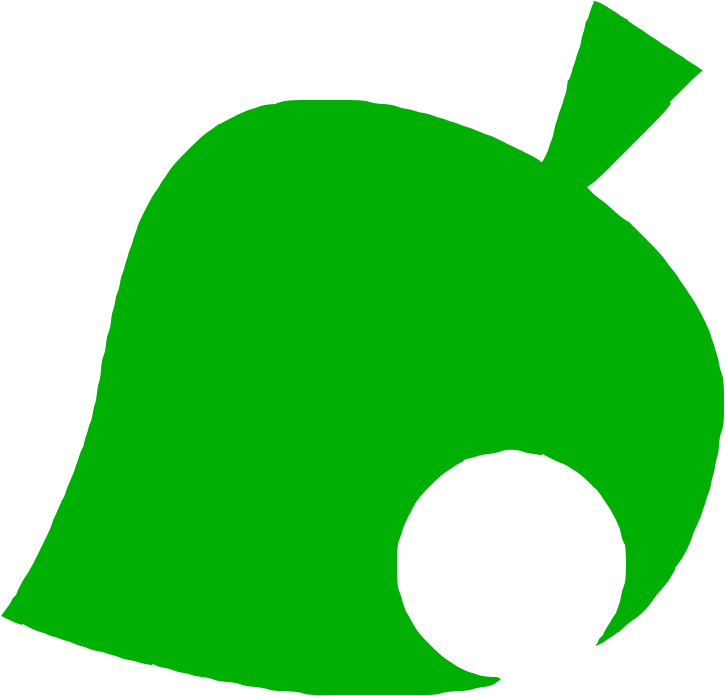
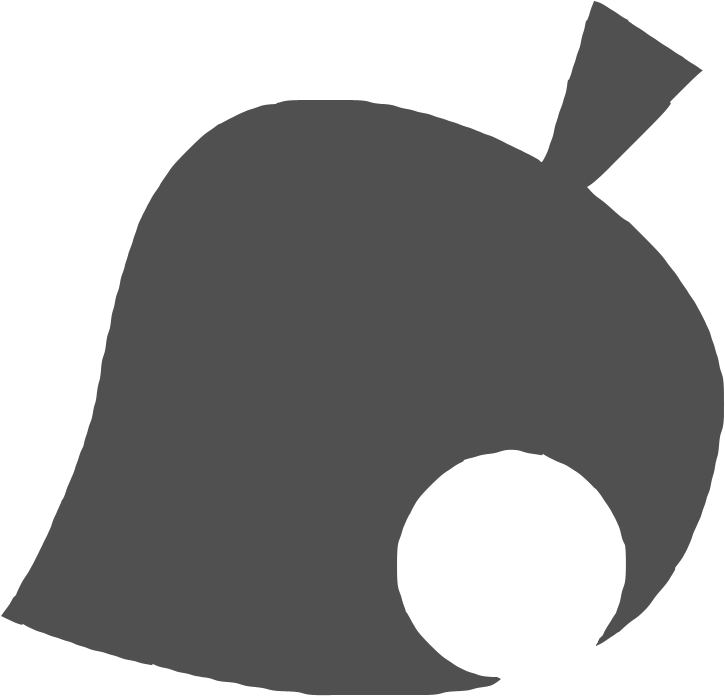
Adjust background color

diff --git a/src/components/Home.js b/src/components/Home.js
@@ -40,45 +40,45 @@ const Home = () => {
         <div className="col-xs-12 text-white">Title</div>
       </div>
       <div className="row">
-        <div className="col category leafbg">
+        <div className="col category p-4 bg-1">
           <NavLink
             className="nav-link"
             to="/villagers"
           >
-            <h2 className="links-nav">
+            <h3 className="links-nav">
               Villagers:
-            </h2>
+            </h3>
           </NavLink>
           {villagers}
           elements. Visible: 25.
         </div>
-        <div className="col category">
+        <div className="col category p-4 bg-2">
           <NavLink
             className="nav-link"
             to="/fossils"
           >
-            <h2 className="links-nav">
+            <h3 className="links-nav">
               Fossils:
-            </h2>
+            </h3>
           </NavLink>
           {fossils}
           elements.
         </div>
       </div>
       <div className="row">
-        <div className="col category">
+        <div className="col category p-4 bg-2">
           <NavLink
             className="nav-link"
             to="/art"
           >
-            <h2 className="links-nav">
+            <h3 className="links-nav">
               Works of Art:
-            </h2>
+            </h3>
           </NavLink>
           {artsies}
           elements.
         </div>
-        <div className="col category">Placeholder</div>
+        <div className="col category p-4 bg-1">Placeholder</div>
       </div>
     </div>
   );

diff --git a/src/App.css b/src/App.css
@@ -17,6 +17,14 @@
   height: 100vh;
 }
 
+.bg-1{
+  background-color: #4368B0;
+}
+
+.bg-2{
+  background-color: #3F60A3;
+}
+
 .links-nav{
   color: white;
   text-decoration: none;
@@ -30,7 +38,6 @@
   background-repeat: no-repeat;
   background-size: contain;
   background-position: center;
-  filter: grayscale(100%);
 }
 @media only screen and (max-width: 600px)  {
 
